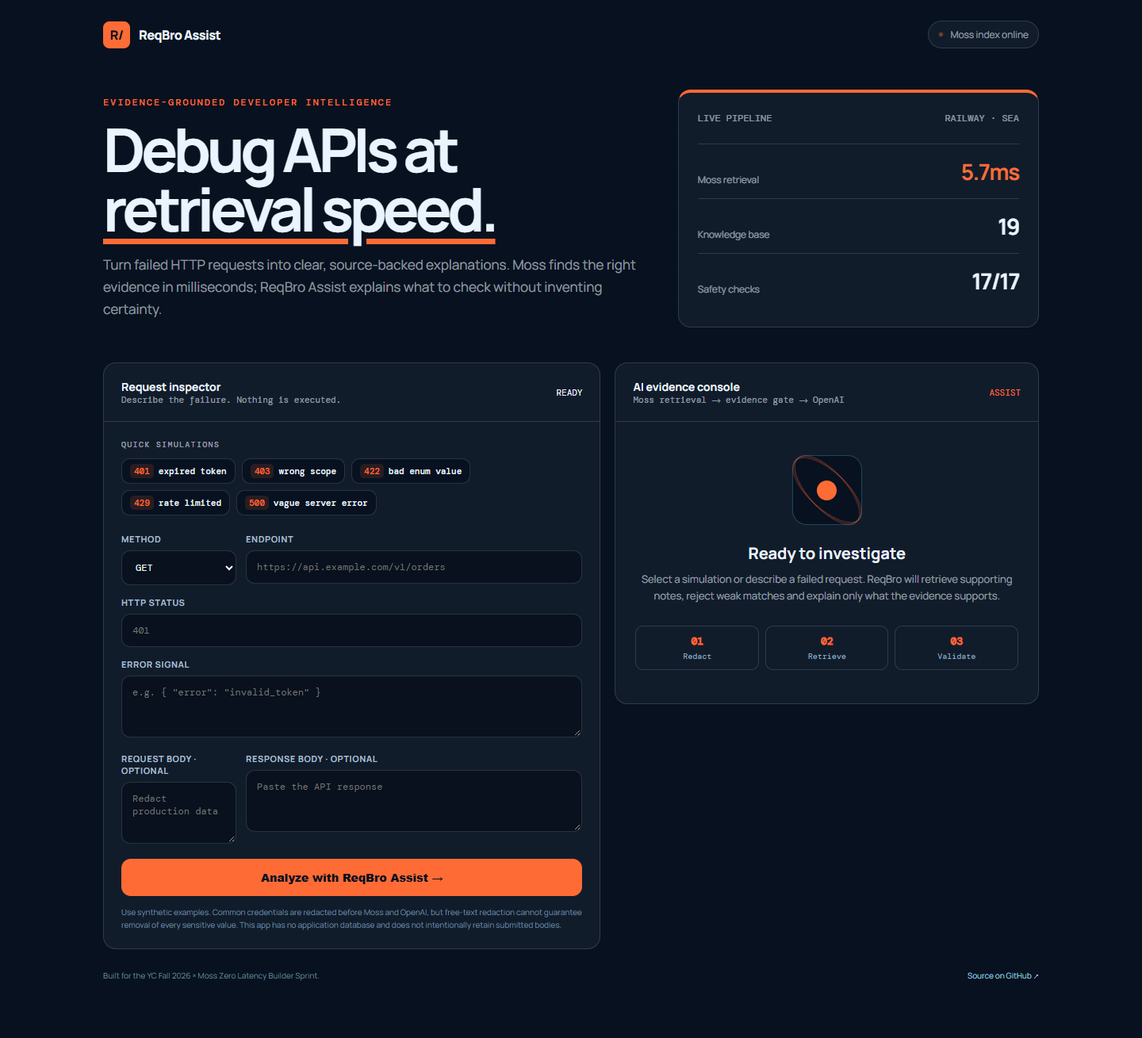
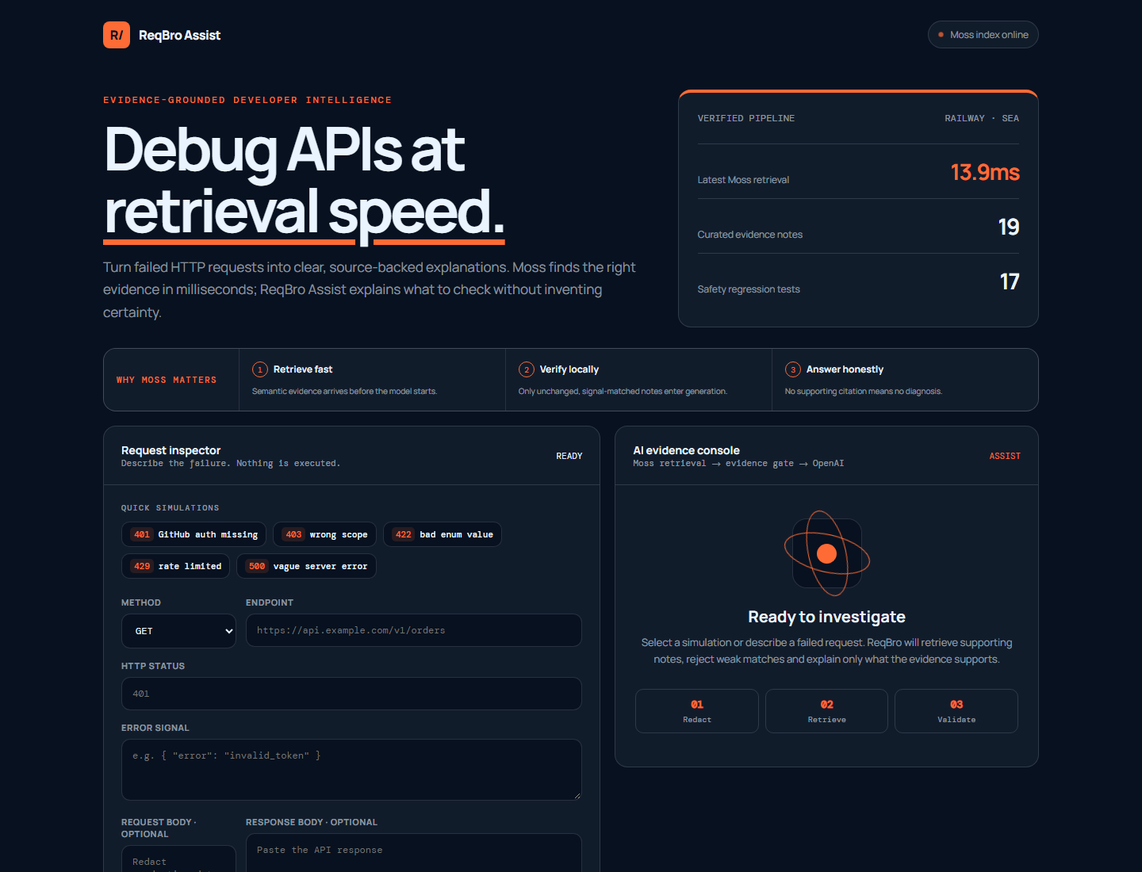
feat: strengthen judge-facing evidence experience

diff --git a/backend/app/static/index.html b/backend/app/static/index.html
@@ -7,20 +7,21 @@
 <style>
 :root{--ink:#08111f;--panel:#111c2b;--line:rgba(234,244,255,.14);--muted:rgba(234,244,255,.58);--text:#eaf4ff;--accent:#ff6b35;--cyan:#ff6b35;--lime:#eaf4ff;--orange:#ff6b35;--red:#ff6b35;--radius:16px}*{box-sizing:border-box}html{scroll-behavior:smooth}body{margin:0;min-height:100vh;color:var(--text);font-family:Manrope,system-ui,sans-serif;background:var(--ink);overflow-x:hidden}.mono,code,input,textarea,select{font-family:"DM Mono",monospace}
 .shell{width:min(1180px,calc(100% - 32px));margin:auto;padding:26px 0 72px}.nav{display:flex;align-items:center;justify-content:space-between;margin-bottom:52px}.brand{display:flex;align-items:center;gap:11px;font-weight:800;letter-spacing:-.03em}.mark{width:34px;height:34px;border-radius:8px;background:var(--accent);color:var(--ink);display:grid;place-items:center}.nav-status{display:flex;align-items:center;gap:8px;color:var(--muted);font-size:12px;padding:8px 12px;border:1px solid var(--line);border-radius:999px;background:var(--panel)}.pulse{width:7px;height:7px;border-radius:50%;background:var(--accent);animation:pulse 1.8s infinite}@keyframes pulse{50%{opacity:.42;transform:scale(.75)}}
-.hero{display:grid;grid-template-columns:1.2fr .8fr;gap:42px;align-items:center;margin-bottom:44px}.eyebrow{color:var(--accent);font:500 12px "DM Mono";text-transform:uppercase;letter-spacing:.16em;margin-bottom:14px}.hero h1{font-size:clamp(43px,6vw,76px);line-height:1.02;letter-spacing:-.055em;margin:0 0 20px;max-width:800px;color:var(--text)}.hero h1 span{color:var(--text);text-decoration:underline;text-decoration-color:var(--accent);text-decoration-thickness:7px;text-underline-offset:9px}.lead{font-size:17px;line-height:1.65;color:var(--muted);max-width:680px;margin:0}.signal-card{padding:24px;border:1px solid var(--line);border-top:4px solid var(--accent);border-radius:var(--radius);background:var(--panel)}.signal-top{display:flex;justify-content:space-between;align-items:center;margin-bottom:24px;color:var(--muted);font:12px "DM Mono"}.metric{display:flex;justify-content:space-between;align-items:end;padding:15px 0;border-top:1px solid var(--line)}.metric strong{font-size:28px;letter-spacing:-.05em}.metric span{font-size:12px;color:var(--muted)}.metric .fast{color:var(--accent)}
+.hero{display:grid;grid-template-columns:1.2fr .8fr;gap:42px;align-items:center;margin-bottom:26px}.eyebrow{color:var(--accent);font:500 12px "DM Mono";text-transform:uppercase;letter-spacing:.16em;margin-bottom:14px}.hero h1{font-size:clamp(43px,6vw,76px);line-height:1.02;letter-spacing:-.055em;margin:0 0 20px;max-width:800px;color:var(--text)}.hero h1 span{color:var(--text);text-decoration:underline;text-decoration-color:var(--accent);text-decoration-thickness:7px;text-underline-offset:9px}.lead{font-size:17px;line-height:1.65;color:var(--muted);max-width:680px;margin:0}.signal-card{padding:24px;border:1px solid var(--line);border-top:4px solid var(--accent);border-radius:var(--radius);background:var(--panel)}.signal-top{display:flex;justify-content:space-between;align-items:center;margin-bottom:24px;color:var(--muted);font:12px "DM Mono"}.metric{display:flex;justify-content:space-between;align-items:end;padding:15px 0;border-top:1px solid var(--line)}.metric strong{font-size:28px;letter-spacing:-.05em}.metric span{font-size:12px;color:var(--muted)}.metric .fast{color:var(--accent)}.moss-proof{display:grid;grid-template-columns:170px 1fr 1fr 1fr;gap:1px;background:var(--line);border:1px solid var(--line);border-radius:var(--radius);overflow:hidden;margin:0 0 18px}.proof-intro,.proof-step{background:var(--panel);padding:16px}.proof-intro{display:flex;align-items:center;font:500 11px "DM Mono";color:var(--accent);text-transform:uppercase;letter-spacing:.12em}.proof-step b{display:block;font-size:12px;margin-bottom:4px}.proof-step span{font-size:10px;color:var(--muted);line-height:1.45}.proof-step i{display:inline-grid;place-items:center;width:20px;height:20px;margin-right:7px;border:1px solid var(--accent);border-radius:50%;color:var(--accent);font:normal 10px "DM Mono"}
 .workspace{display:grid;grid-template-columns:minmax(0,1.08fr) minmax(340px,.92fr);gap:18px;align-items:start}.panel{background:var(--panel);border:1px solid var(--line);border-radius:var(--radius);overflow:hidden}.panel-head{padding:20px 22px;border-bottom:1px solid var(--line);display:flex;align-items:center;justify-content:space-between}.panel-title{font-weight:700;font-size:14px}.panel-kicker{color:var(--muted);font:11px "DM Mono"}.panel-body{padding:22px}.section-label{font:500 10px "DM Mono";letter-spacing:.13em;text-transform:uppercase;color:var(--muted);margin-bottom:11px}.examples{display:flex;gap:8px;flex-wrap:wrap;margin-bottom:22px}.example-btn{border:1px solid var(--line);background:var(--ink);color:var(--text);border-radius:10px;padding:8px 10px;font:500 11px "DM Mono";cursor:pointer;transition:.2s}.example-btn:hover{transform:translateY(-2px);border-color:var(--accent)}.code-chip{padding:2px 5px;border-radius:5px;margin-right:6px}.row{display:grid;grid-template-columns:145px 1fr;gap:12px}.field{margin-bottom:14px}label{display:block;color:var(--muted);font-size:11px;font-weight:700;letter-spacing:.06em;text-transform:uppercase;margin:0 0 7px}input,textarea,select{width:100%;border:1px solid var(--line);background:var(--ink);color:var(--text);border-radius:11px;padding:12px 13px;outline:none;font-size:12px;transition:.2s}input:focus,textarea:focus,select:focus{border-color:var(--accent)}textarea{min-height:78px;resize:vertical}.submit{width:100%;border:0;border-radius:12px;padding:14px 18px;color:var(--ink);background:var(--accent);font-weight:800;font-size:14px;cursor:pointer;transition:.22s}.submit:hover{transform:translateY(-2px)}.submit:disabled{cursor:wait;opacity:.72;transform:none}.retention-note{margin-top:13px;color:var(--muted);font-size:10px;line-height:1.55}
 .assistant-empty{padding:42px 25px;text-align:center}.orb{width:88px;height:88px;border-radius:18px;margin:0 auto 22px;display:grid;place-items:center;position:relative;background:var(--ink);border:1px solid var(--line)}.orb:before,.orb:after{content:"";position:absolute;border:1px solid var(--accent);border-radius:50%;animation:orbit 7s linear infinite}.orb:before{width:108px;height:46px}.orb:after{width:46px;height:108px;animation-direction:reverse}@keyframes orbit{to{transform:rotate(360deg)}}.orb-core{width:25px;height:25px;border-radius:50%;background:var(--accent)}.assistant-empty h2{font-size:20px;margin:0 0 9px}.assistant-empty p{margin:0;color:var(--muted);font-size:13px;line-height:1.6}.trust-grid{display:grid;grid-template-columns:repeat(3,1fr);gap:8px;margin-top:27px}.trust{padding:10px 6px;border:1px solid var(--line);border-radius:10px;font:10px "DM Mono";color:var(--muted)}.trust b{display:block;color:var(--accent);font-size:13px;margin-bottom:4px}#result .card{padding:22px}.loading-card{padding:28px 22px}.scan{height:3px;background:var(--ink);border-radius:10px;overflow:hidden;margin:20px 0}.scan:after{content:"";display:block;width:42%;height:100%;background:var(--accent);animation:scan 1.35s infinite}@keyframes scan{from{transform:translateX(-110%)}to{transform:translateX(290%)}}.loading-step{display:flex;align-items:center;gap:10px;color:var(--muted);font:11px "DM Mono";margin:9px 0}.loading-step i{width:7px;height:7px;border-radius:50%;background:var(--accent)}
-.banner{padding:13px 14px;border:1px solid var(--line);border-left:4px solid var(--accent);border-radius:11px;margin-bottom:18px;font-size:12px;line-height:1.55;background:var(--ink);color:var(--text)}.result-title{font:500 10px "DM Mono";letter-spacing:.12em;text-transform:uppercase;color:var(--accent);margin:20px 0 8px}.result-body,.list{font-size:13px;line-height:1.65;color:var(--text)}.list{padding-left:19px}.source{padding:13px;border:1px solid var(--line);background:var(--ink);border-radius:11px;margin:9px 0}.source.cited{border-color:var(--accent)}.source-head{display:flex;align-items:center;gap:7px;flex-wrap:wrap}.source .id{font:500 11px "DM Mono";color:var(--text)}.cited-tag{font:9px "DM Mono";text-transform:uppercase;color:var(--ink);background:var(--accent);border-radius:999px;padding:3px 6px}.score{margin-left:auto;font:10px "DM Mono";color:var(--muted)}.snippet{font-size:11px;line-height:1.55;color:var(--muted);margin:8px 0}.source a,.source small{font-size:10px;color:var(--accent)}.timing{display:grid;grid-template-columns:repeat(3,1fr);gap:8px;margin-top:20px}.timing .cell{padding:12px;border:1px solid var(--line);border-radius:10px;background:var(--ink)}.timing .label{font:9px "DM Mono";text-transform:uppercase;color:var(--muted)}.timing .value{font-weight:800;font-size:19px;margin-top:3px}.timing .total{border-color:var(--accent)}.footer{display:flex;justify-content:space-between;gap:20px;margin-top:26px;color:var(--muted);font-size:10px}.footer a{color:var(--accent);text-decoration:none}@media(max-width:900px){.hero,.workspace{grid-template-columns:1fr}.signal-card{display:none}.hero{margin-bottom:30px}.nav{margin-bottom:38px}}@media(max-width:560px){.shell{width:min(100% - 20px,1180px);padding-top:16px}.hero h1{font-size:42px;letter-spacing:-.035em}.row{grid-template-columns:1fr}.trust-grid,.timing{grid-template-columns:1fr}.footer{flex-direction:column}.nav-status{font-size:10px}}
+.banner{padding:13px 14px;border:1px solid var(--line);border-left:4px solid var(--accent);border-radius:11px;margin-bottom:18px;font-size:12px;line-height:1.55;background:var(--ink);color:var(--text)}.verdict{display:flex;justify-content:space-between;gap:14px;align-items:center;padding:14px;border:1px solid var(--accent);border-radius:11px;background:var(--ink);margin-bottom:18px}.verdict strong{font-size:14px}.verdict small{display:block;color:var(--muted);margin-top:3px}.verdict-badge{font:500 10px "DM Mono";color:var(--ink);background:var(--accent);padding:7px 9px;border-radius:999px;white-space:nowrap}.result-title{font:500 10px "DM Mono";letter-spacing:.12em;text-transform:uppercase;color:var(--accent);margin:20px 0 8px}.result-body,.list{font-size:13px;line-height:1.65;color:var(--text)}.list{padding-left:19px}.source{padding:13px;border:1px solid var(--line);background:var(--ink);border-radius:11px;margin:9px 0}.source.cited{border-color:var(--accent)}.source-head{display:flex;align-items:center;gap:7px;flex-wrap:wrap}.source .id{font:500 11px "DM Mono";color:var(--text)}.cited-tag{font:9px "DM Mono";text-transform:uppercase;color:var(--ink);background:var(--accent);border-radius:999px;padding:3px 6px}.score{margin-left:auto;font:10px "DM Mono";color:var(--muted)}.snippet{font-size:11px;line-height:1.55;color:var(--muted);margin:8px 0}.source a,.source small{font-size:10px;color:var(--accent)}.timing{display:grid;grid-template-columns:repeat(3,1fr);gap:8px;margin-top:20px}.timing .cell{padding:12px;border:1px solid var(--line);border-radius:10px;background:var(--ink)}.timing .label{font:9px "DM Mono";text-transform:uppercase;color:var(--muted)}.timing .value{font-weight:800;font-size:19px;margin-top:3px}.timing .total{border-color:var(--accent)}.trace{margin-top:12px;border-left:2px solid var(--accent);padding-left:12px}.trace-row{display:flex;justify-content:space-between;gap:12px;padding:7px 0;font:10px "DM Mono";color:var(--muted)}.trace-row b{color:var(--text);font-weight:500}.result-actions{display:flex;gap:8px;margin-top:14px}.result-actions button{flex:1;border:1px solid var(--line);background:var(--ink);color:var(--text);border-radius:9px;padding:10px;font:500 10px "DM Mono";cursor:pointer}.result-actions button:hover{border-color:var(--accent)}.footer{display:flex;justify-content:space-between;gap:20px;margin-top:26px;color:var(--muted);font-size:10px}.footer a{color:var(--accent);text-decoration:none}@media(max-width:900px){.hero,.workspace{grid-template-columns:1fr}.signal-card{display:none}.hero{margin-bottom:24px}.nav{margin-bottom:38px}.moss-proof{grid-template-columns:1fr 1fr}.proof-intro{grid-column:1/-1}}@media(max-width:560px){.shell{width:min(100% - 20px,1180px);padding-top:16px}.hero h1{font-size:42px;letter-spacing:-.035em}.row,.moss-proof{grid-template-columns:1fr}.trust-grid,.timing{grid-template-columns:1fr}.footer{flex-direction:column}.nav-status{font-size:10px}.result-actions{flex-direction:column}}
 </style></head>
 <body><main class="shell">
 <nav class="nav"><div class="brand"><span class="mark">R/</span> ReqBro Assist</div><div class="nav-status"><span class="pulse"></span> Moss index online</div></nav>
-<section class="hero"><div><div class="eyebrow">Evidence-grounded developer intelligence</div><h1>Debug APIs at <span>retrieval speed.</span></h1><p class="lead">Turn failed HTTP requests into clear, source-backed explanations. Moss finds the right evidence in milliseconds; ReqBro Assist explains what to check without inventing certainty.</p></div><aside class="signal-card"><div class="signal-top"><span>LIVE PIPELINE</span><span>RAILWAY · SEA</span></div><div class="metric"><span>Moss retrieval</span><strong class="fast">5.7ms</strong></div><div class="metric"><span>Knowledge base</span><strong>19</strong></div><div class="metric"><span>Safety checks</span><strong>17/17</strong></div></aside></section>
+<section class="hero"><div><div class="eyebrow">Evidence-grounded developer intelligence</div><h1>Debug APIs at <span>retrieval speed.</span></h1><p class="lead">Turn failed HTTP requests into clear, source-backed explanations. Moss finds the right evidence in milliseconds; ReqBro Assist explains what to check without inventing certainty.</p></div><aside class="signal-card"><div class="signal-top"><span>VERIFIED PIPELINE</span><span>RAILWAY · SEA</span></div><div class="metric"><span>Latest Moss retrieval</span><strong class="fast">13.9ms</strong></div><div class="metric"><span>Curated evidence notes</span><strong>19</strong></div><div class="metric"><span>Safety regression tests</span><strong>17</strong></div></aside></section>
+<section class="moss-proof" aria-label="Why Moss matters"><div class="proof-intro">Why Moss matters</div><div class="proof-step"><b><i>1</i>Retrieve fast</b><span>Semantic evidence arrives before the model starts.</span></div><div class="proof-step"><b><i>2</i>Verify locally</b><span>Only unchanged, signal-matched notes enter generation.</span></div><div class="proof-step"><b><i>3</i>Answer honestly</b><span>No supporting citation means no diagnosis.</span></div></section>
 <section class="workspace"><div class="panel"><div class="panel-head"><div><div class="panel-title">Request inspector</div><div class="panel-kicker">Describe the failure. Nothing is executed.</div></div><span class="mono" style="font-size:11px;color:var(--lime)">READY</span></div><div class="panel-body">
 <div class="section-label">Quick simulations</div><div class="examples" id="examples"></div>
 <div class="row"><div class="field"><label for="method">Method</label><select id="method"><option>GET</option><option>POST</option><option>PUT</option><option>PATCH</option><option>DELETE</option><option>HEAD</option><option>OPTIONS</option></select></div><div class="field"><label for="endpoint">Endpoint</label><input id="endpoint" placeholder="https://api.example.com/v1/orders"></div></div>
 <div class="field"><label for="status_code">HTTP status</label><input id="status_code" inputmode="numeric" maxlength="3" placeholder="401"></div><div class="field"><label for="error_message">Error signal</label><textarea id="error_message" placeholder='e.g. { "error": "invalid_token" }'></textarea></div>
 <div class="row"><div class="field"><label for="request_body">Request body · optional</label><textarea id="request_body" placeholder="Redact production data"></textarea></div><div class="field"><label for="response_body">Response body · optional</label><textarea id="response_body" placeholder="Paste the API response"></textarea></div></div>
-<button class="submit" id="submit">Analyze with ReqBro Assist →</button><div class="retention-note">Use public or synthetic examples only. Common credentials are redacted before Moss and OpenAI, but free-text redaction cannot guarantee removal of every sensitive value. This app has no application database and does not intentionally retain submitted bodies.</div></div></div>
+<button class="submit" id="submit">Analyze with ReqBro Assist →</button><div class="retention-note">Use public or synthetic examples only. Common credentials receive best-effort redaction before Moss and OpenAI, but free-text redaction cannot guarantee removal of every sensitive value. This app has no application database and does not intentionally retain submitted bodies.</div></div></div>
 <div class="panel" id="assistant-panel"><div class="panel-head"><div><div class="panel-title">AI evidence console</div><div class="panel-kicker">Moss retrieval → evidence gate → OpenAI</div></div><span class="mono" style="font-size:11px;color:var(--cyan)">ASSIST</span></div><div id="result"><div class="assistant-empty"><div class="orb"><div class="orb-core"></div></div><h2>Ready to investigate</h2><p>Select a simulation or describe a failed request. ReqBro will retrieve supporting notes, reject weak matches and explain only what the evidence supports.</p><div class="trust-grid"><div class="trust"><b>01</b>Redact</div><div class="trust"><b>02</b>Retrieve</div><div class="trust"><b>03</b>Validate</div></div></div></div></div></section>
 <footer class="footer"><span>Built for the YC Fall 2026 × Moss Zero Latency Builder Sprint.</span><span><a href="https://github.com/Madhuri-4596/reqbro-assist" target="_blank" rel="noopener">Source on GitHub ↗</a></span></footer>
 </main><script src="examples.js?v=three-colour"></script><script src="app.js?v=three-colour"></script></body></html>

diff --git a/backend/app/static/app.js b/backend/app/static/app.js
@@ -1,5 +1,6 @@
 const submitBtn = document.getElementById("submit");
 const resultEl = document.getElementById("result");
+let lastResult = null;
 
 function esc(s) {
   const div = document.createElement("div");
@@ -63,7 +64,13 @@ submitBtn.addEventListener("click", async () => {
 });
 
 function render(data) {
+  lastResult = data;
   let html = `<div class="card">`;
+  const citedCount = data.sources?.filter((s) => s.cited).length || 0;
+  const trustedCount = data.sources?.filter((s) => s.trusted).length || 0;
+  const grounded = !data.needs_more_info && !data.insufficient_evidence && citedCount > 0;
+
+  html += `<div class="verdict"><div><strong>${grounded ? "Evidence-supported diagnosis" : "Conservative abstention"}</strong><small>${grounded ? `${citedCount} supporting citation · ${trustedCount} trusted results` : "ReqBro refused to claim more than the evidence supports"}</small></div><span class="verdict-badge">${grounded ? "GROUNDED" : "ABSTAINED"}</span></div>`;
 
   if (data.needs_more_info) {
     html += `<div class="banner info">
@@ -91,7 +98,6 @@ function render(data) {
   }
 
   if (data.sources?.length) {
-    const citedCount = data.sources.filter((s) => s.cited).length;
     html += `<div class="result-title">${citedCount > 0 ? "Sources" : "Considered (none confidently relevant)"}</div>`;
     data.sources.forEach((s) => {
       html += `<div class="source ${s.cited ? "cited" : ""}">
@@ -112,6 +118,40 @@ function render(data) {
     <div class="cell total"><div class="label">Total</div><div class="value">${data.total_ms}<span style="font-size:11px">ms</span></div></div>
   </div>`;
 
+  html += `<div class="trace" aria-label="Evidence pipeline trace">
+    <div class="trace-row"><b>01 · Redaction</b><span>completed before provider calls</span></div>
+    <div class="trace-row"><b>02 · Moss retrieval</b><span>${data.sources?.length || 0} results · ${data.retrieval_ms}ms</span></div>
+    <div class="trace-row"><b>03 · Evidence gate</b><span>${citedCount ? `${citedCount} source cited` : "diagnosis withheld"}</span></div>
+    <div class="trace-row"><b>04 · OpenAI</b><span>${data.ai_ms ? `${data.ai_ms}ms` : "skipped safely"}</span></div>
+    <div class="trace-row"><b>05 · Retention</b><span>${data.data_retained ? "application storage enabled" : "no application database retention"}</span></div>
+  </div>`;
+
+  html += `<div class="result-actions"><button type="button" data-action="copy">Copy judge summary</button><button type="button" data-action="json">Download evidence JSON</button></div>`;
+
   html += `</div>`;
   resultEl.innerHTML = html;
 }
+
+function judgeSummary(data) {
+  const cited = (data.sources || []).filter((s) => s.cited).map((s) => s.id);
+  return `ReqBro Assist evidence report\n\nMeaning: ${data.meaning}\nLikely cause: ${data.likely_cause}\nSuggested fix: ${data.suggested_fix}\nCited evidence: ${cited.join(", ") || "none — diagnosis abstained"}\nMoss retrieval: ${data.retrieval_ms}ms\nAI: ${data.ai_ms}ms\nTotal: ${data.total_ms}ms\nApplication data retained: ${data.data_retained}`;
+}
+
+resultEl.addEventListener("click", async (event) => {
+  const action = event.target.dataset.action;
+  if (!action || !lastResult) return;
+  if (action === "copy") {
+    await navigator.clipboard.writeText(judgeSummary(lastResult));
+    event.target.textContent = "Copied ✓";
+    setTimeout(() => (event.target.textContent = "Copy judge summary"), 1600);
+  }
+  if (action === "json") {
+    const blob = new Blob([JSON.stringify(lastResult, null, 2)], { type: "application/json" });
+    const url = URL.createObjectURL(blob);
+    const link = document.createElement("a");
+    link.href = url;
+    link.download = "reqbro-evidence-report.json";
+    link.click();
+    URL.revokeObjectURL(url);
+  }
+});

diff --git a/PRD.md b/PRD.md
@@ -94,7 +94,7 @@ purpose-written knowledge base of 19 documents covering five error
 ## Smallest useful product (what a judge can verify in under a minute)
 
 1. Click one of the five example buttons.
-2. Click "Debug this request."
+2. Click "Analyze with ReqBro Assist."
 3. See: an explanation, a likely cause, what to check, a suggested fix,
    the specific retrieved documents that support the answer (each marked
    "cited" or not), and three separate timing numbers.
@@ -134,16 +134,16 @@ purpose-written knowledge base of 19 documents covering five error
 
 ### Actual measured result
 
-On September 19, 2026, a synthetic `401` request with the explicit signal
+On September 20, 2026, a reproducible public GitHub `401` response with the explicit signal
 `Authorization header is missing` was sent to the public Railway deployment in
 Southeast Asia. The live response returned five trusted Moss results, cited one
 supporting source, and reported:
 
 | Stage | Observed time |
 |---|---:|
-| Moss retrieval | **5.7 ms** |
-| OpenAI generation | **2,771.2 ms** |
-| End to end | **2,777.2 ms** |
+| Moss retrieval | **13.9 ms** |
+| OpenAI generation | **2,431.2 ms** |
+| End to end | **2,445.4 ms** |
 
 This is a single verified production observation, not an average, percentile or
 performance guarantee. Provider conditions, cold starts and input complexity
@@ -181,7 +181,7 @@ verbatim. Request field lengths and method/status values are bounded.
 
 The credential-free regression suite passes 17 tests using provider mocks.
 The 17-test suite still uses provider mocks, but deployed operation was verified
-separately on September 19 with a live Moss retrieval and OpenAI explanation.
+separately on September 20 with a live Moss retrieval and OpenAI explanation.
 That single observation should not be presented as a broad performance study.
 The UI discloses application behavior separately from hosting/provider policies;
 no blanket claim that data is never retained anywhere is made.

diff --git a/DEMO_SCRIPT.md b/DEMO_SCRIPT.md
@@ -1,0 +1,48 @@
+# ReqBro Assist — 2-minute judging demo
+
+## 0:00–0:15 — Hook
+
+“A status code is not a diagnosis. ReqBro Assist helps developers understand
+failed API requests, but refuses to guess when the evidence is weak.”
+
+Show the product headline and the **Why Moss matters** strip.
+
+## 0:15–0:35 — Architecture
+
+“Sensitive values receive best-effort redaction first. Moss retrieves the most
+relevant troubleshooting evidence. A deterministic gate checks that the note is
+trusted and that the observed error contains a matching signal. Only then does
+OpenAI explain the failure.”
+
+## 0:35–1:10 — Grounded real case
+
+Click **401 GitHub auth missing**, then **Analyze with ReqBro Assist**.
+
+“This is a reproducible response from GitHub’s public user endpoint without an
+Authorization header. ReqBro identifies the missing header, cites the exact
+supporting note and exposes every stage and timing. Moss retrieval finishes in
+milliseconds; the model is the slower stage.”
+
+Show **GROUNDED**, the cited source and the evidence trace.
+
+## 1:10–1:35 — Honest abstention
+
+Click **500 vague server error**, then analyze.
+
+“A generic 500 cannot prove one root cause. Here the evidence gate withholds the
+diagnosis and skips OpenAI entirely. The result returns in milliseconds without
+spending model tokens or inventing a fix.”
+
+Show **ABSTAINED**, `AI 0ms`, and `diagnosis withheld`.
+
+## 1:35–1:50 — Safety
+
+“ReqBro never calls the submitted endpoint, never applies fixes automatically,
+rejects changed retrieval text, validates model citations and has no application
+database for submitted bodies.”
+
+## 1:50–2:00 — Close
+
+“ReqBro makes Moss the trust and speed layer in front of AI: retrieve fast,
+verify locally, and answer only when the evidence supports it.”
+

diff --git a/README.md b/README.md
@@ -12,7 +12,8 @@ Built for the [YC Fall 2026 x Moss: The Zero Latency Builder Sprint](https://yc-
 ![ReqBro Assist](docs/reqbro-home.png)
 
 Submission materials: [PRD](PRD.md) · [Architecture](ARCHITECTURE.md) ·
-[Evidence package](SUBMISSION_EVIDENCE.md)
+[Evidence package](SUBMISSION_EVIDENCE.md) · [2-minute demo](DEMO_SCRIPT.md) ·
+[Submission copy](SUBMISSION_COPY.md)
 
 This is a separate project from ReqBro (the Android API client) — it
 reuses the idea of AI-assisted request debugging, rewritten as a standalone web
@@ -79,7 +80,7 @@ this."
 The application is deployed as one Railway service in Southeast Asia. Both the
 static interface and FastAPI backend use the same public origin. The production
 health endpoint and a Moss-backed `/api/debug` request were verified on
-September 19, 2026.
+September 20, 2026.
 
 To reproduce the deployment on [Railway](https://railway.app):
 
@@ -127,9 +128,8 @@ validation limits, forged retrieved text, sparse/no-match inputs, source links,
 conflicting abstentions, invalid model JSON and sanitized provider errors.
 Provider requests are mocked in this suite, so passing tests alone do not
 establish live retrieval or model quality. A separate production verification
-on September 19, 2026 returned five trusted Moss results, one cited supporting
-source, 5.7 ms retrieval, 2,771.2 ms AI generation and 2,777.2 ms total time for
-a synthetic missing-Authorization-header case. These are one observed run, not
+on September 20, 2026 returned five trusted Moss results, one cited supporting
+source, 13.9 ms retrieval, 2,431.2 ms AI generation and 2,445.4 ms total time for a reproducible public GitHub missing-Authorization-header case. These are one observed run, not
 a latency guarantee or benchmark average.
 
 The server requires an error/response signal matching a curated pattern before

diff --git a/SUBMISSION_COPY.md b/SUBMISSION_COPY.md
@@ -1,0 +1,43 @@
+# Submission copy
+
+## One-line pitch
+
+ReqBro Assist uses Moss as a millisecond evidence layer that lets AI diagnose
+API failures only when retrieved documentation and the observed error agree.
+
+## Short description
+
+API errors are ambiguous, and generic AI assistants often jump from a status
+code to a confident fix. ReqBro Assist redacts common secrets, retrieves curated
+troubleshooting evidence with Moss, verifies the integrity and signal match of
+that evidence, and then asks OpenAI for a citation-backed explanation. If no
+source supports the diagnosis, it abstains and skips the model call.
+
+## What makes it different
+
+- Moss is part of the decision path, not a decorative search box.
+- A deterministic gate blocks unsupported or altered retrieval content.
+- Every retrieved source remains visible; cited and uncited evidence are
+  distinguished honestly.
+- Vague failures produce an abstention instead of a fabricated root cause.
+- The UI exposes retrieval, model and end-to-end latency separately.
+- The submitted endpoint is never called and suggested fixes are never applied.
+
+## Verified proof points
+
+- Real public GitHub 401 case: one supporting citation from five trusted Moss
+  results, with a grounded diagnosis.
+- Vague 500 case: diagnosis withheld, OpenAI skipped, result returned in about
+  9 ms in one observed run.
+- Nineteen curated troubleshooting notes.
+- Seventeen credential-free safety regression tests passing.
+- No application database retention.
+
+## Links
+
+- Live application: https://reqbro-assist-production.up.railway.app
+- Repository: https://github.com/Madhuri-4596/reqbro-assist
+- PRD: `PRD.md`
+- Architecture: `ARCHITECTURE.md`
+- Evidence: `SUBMISSION_EVIDENCE.md`
+

diff --git a/ARCHITECTURE.md b/ARCHITECTURE.md
@@ -113,7 +113,7 @@ verbatim. Request field lengths and method/status values are bounded.
 
 The credential-free regression suite passes 17 tests using provider mocks.
 The credential-free suite uses provider mocks. Live deployed operation was
-verified separately on September 19, 2026 with a Moss retrieval and OpenAI
-explanation; the observed 5.7 ms retrieval is one run rather than a benchmark.
+verified separately on September 20, 2026 with a Moss retrieval and OpenAI
+explanation; the observed 13.9 ms retrieval is one run rather than a benchmark.
 The UI discloses application behavior separately from hosting/provider policies;
 no blanket claim that data is never retained anywhere is made.
